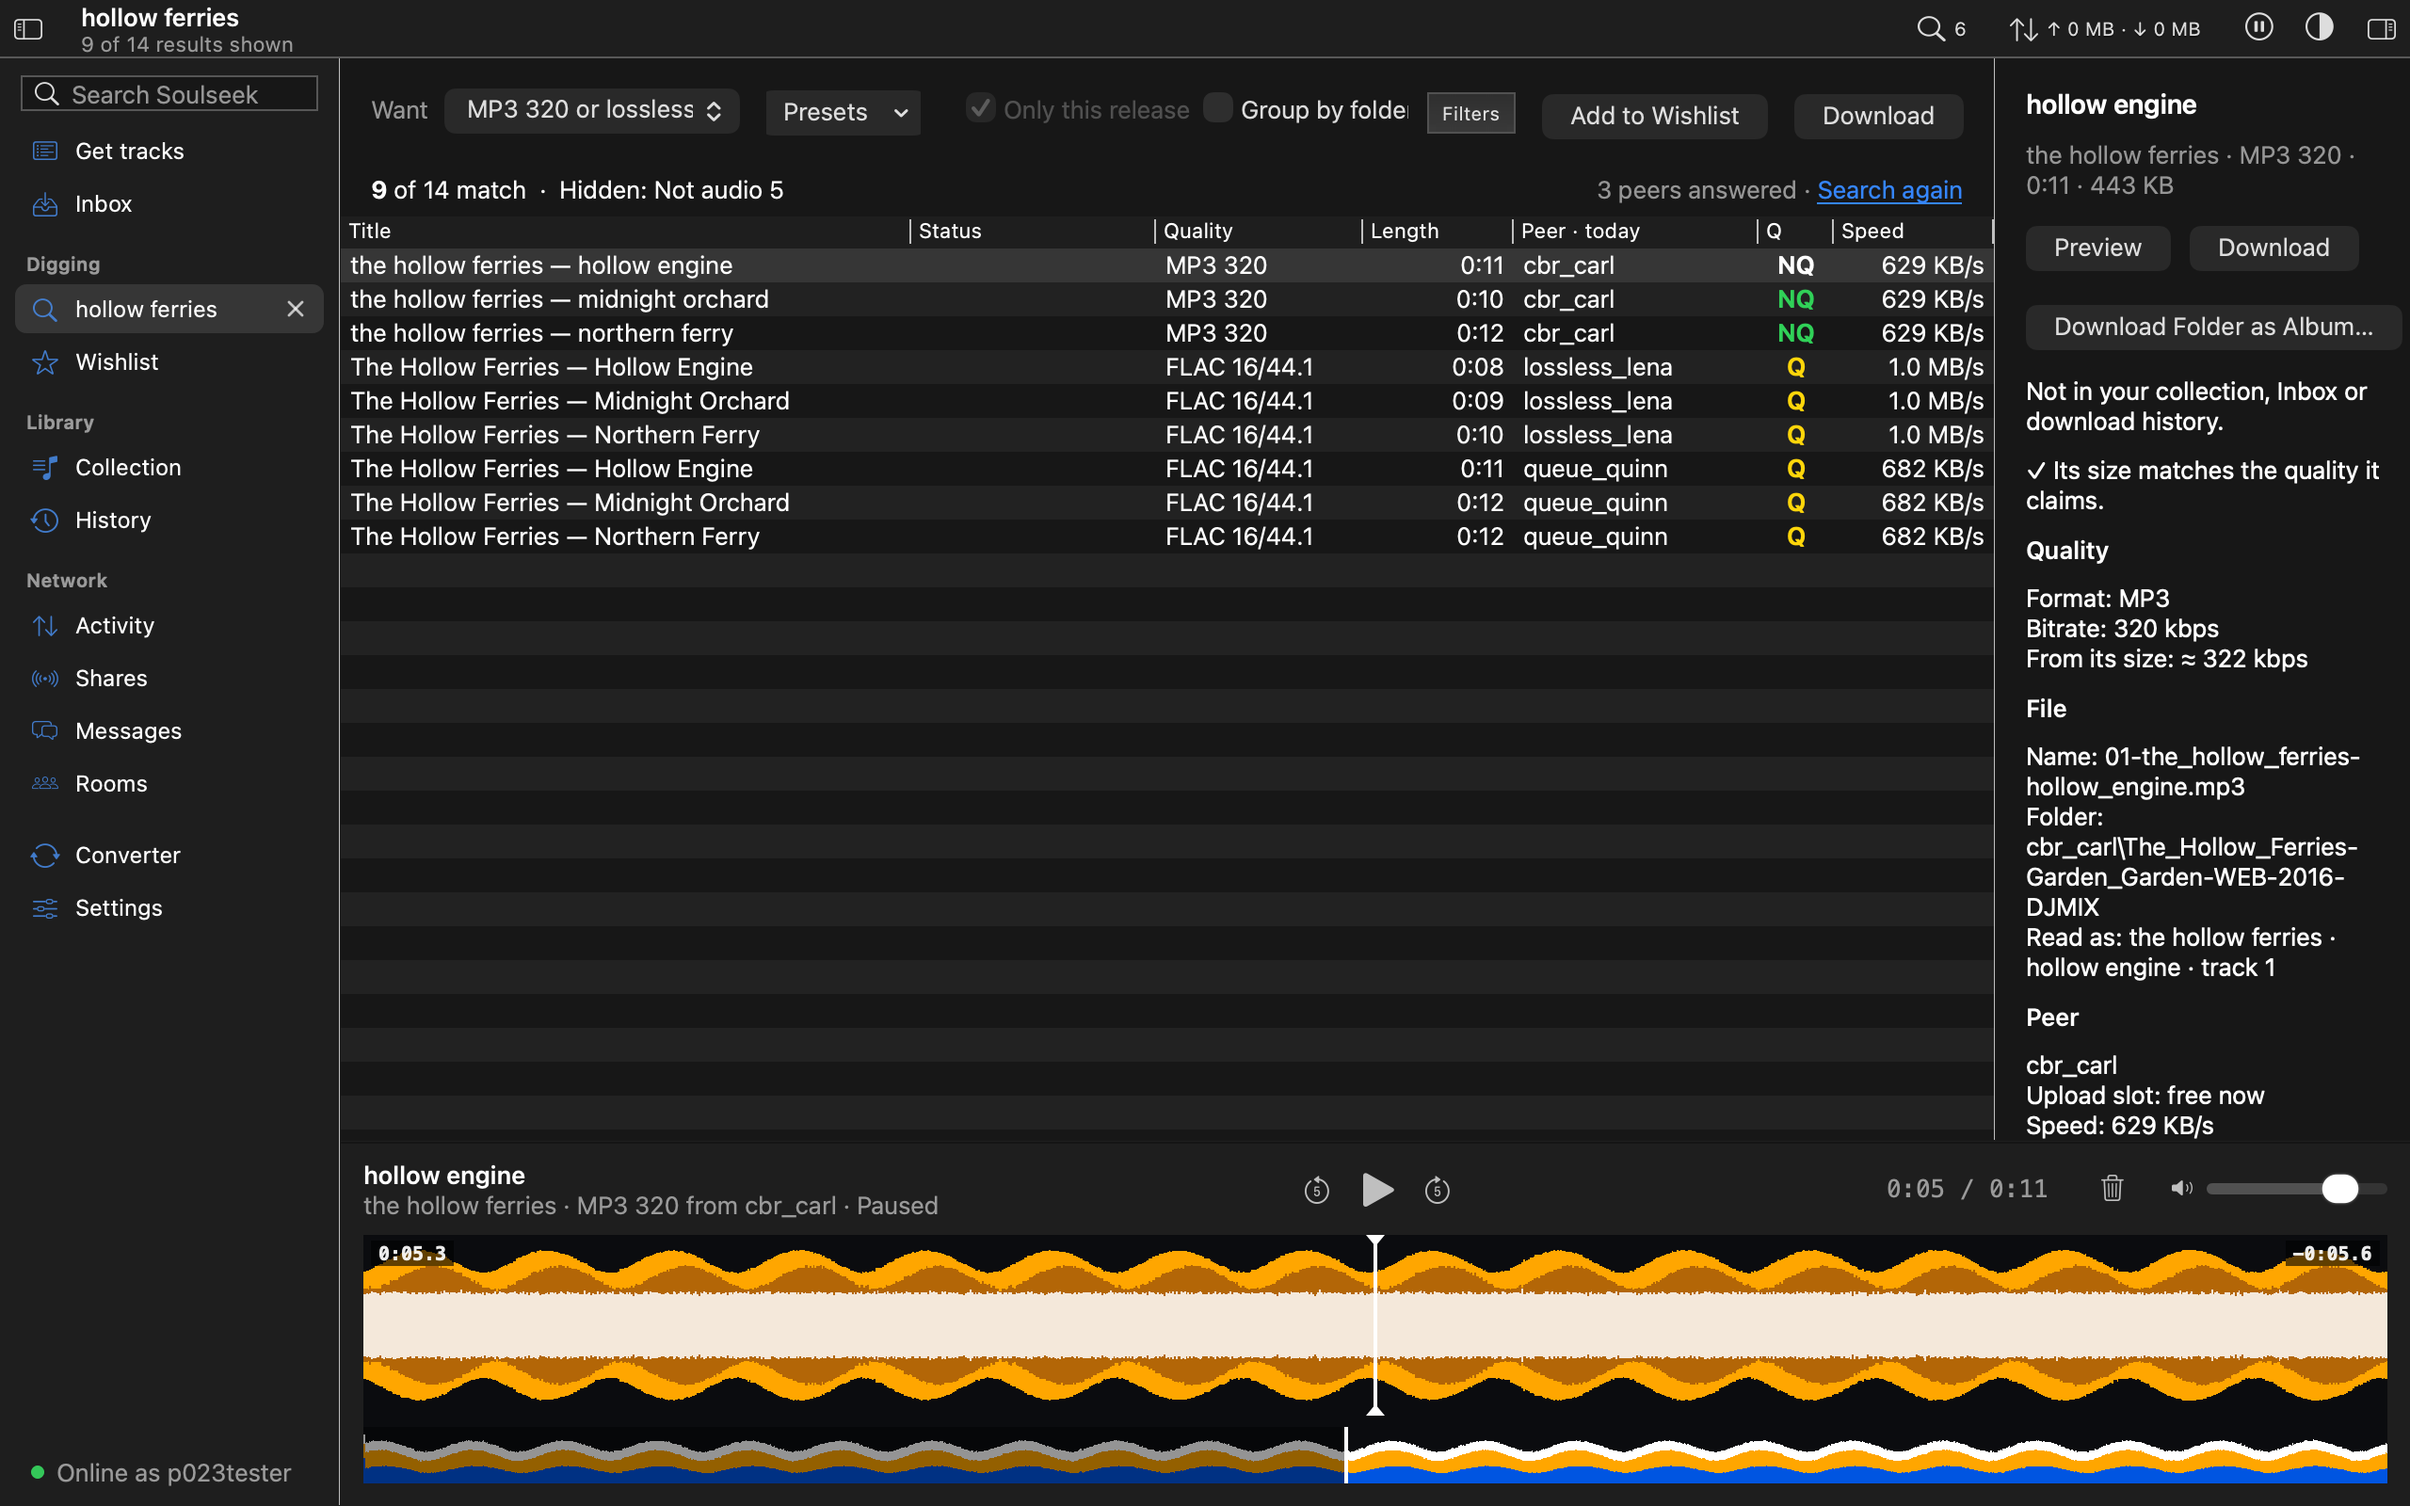
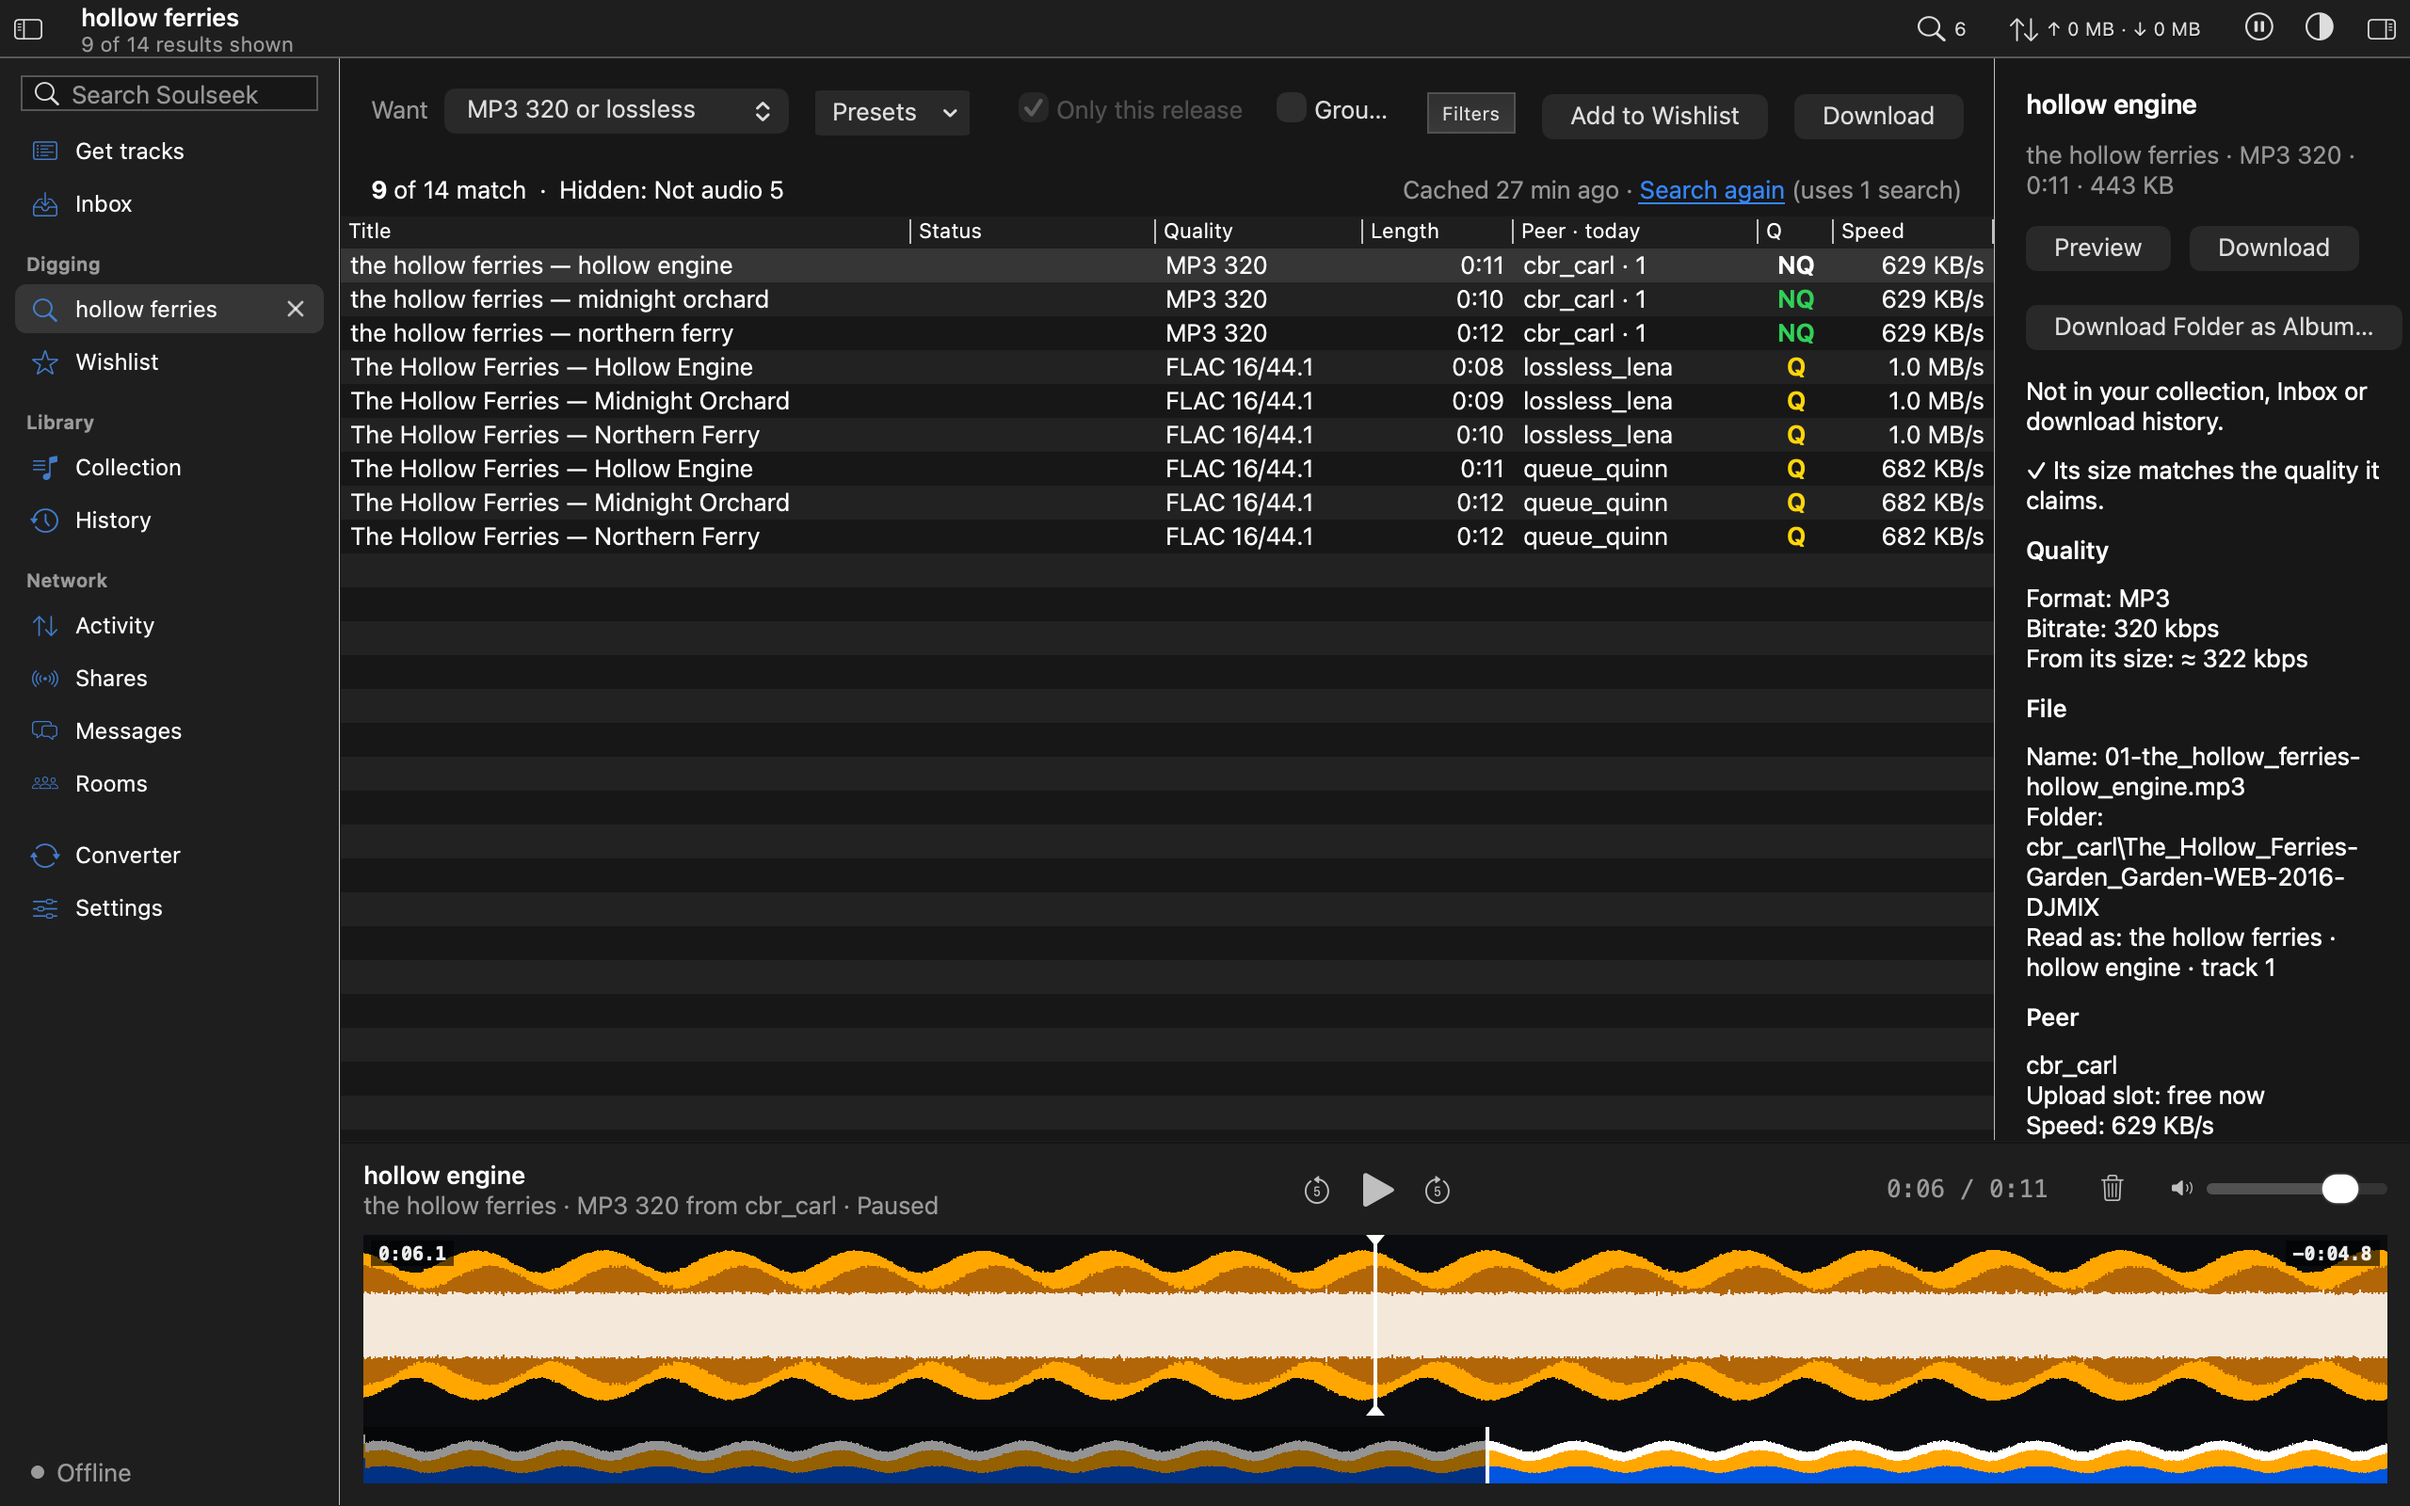
Search: the boxes' labels elide before the preset's name shortens; screenshots redone
macOS lays a check box out by a rect that stops short of its label, so
the boxes are laid out by their whole rect.

diff --git a/src/app/views/SearchView.cpp b/src/app/views/SearchView.cpp
@@ -345,8 +345,6 @@ QWidget *SearchView::createFilterBar()
     barLayout->addWidget(wants, 1);
     m_wantLabel = fieldLabel(tr("Want"), wants, m_preset);
     layout->addWidget(m_wantLabel);
-    // The preset's name elides down to a few letters before anything else gives way.
-    m_preset->setMinimumWidth((m_preset->fontMetrics().averageCharWidth() * 6) + 40);
     m_preset->setObjectName(u"search.preset"_s);
     m_preset->setToolTip(tr("The quality you want: a preset. Get tracks and the Wishlist pick from the same ones."));
     layout->addWidget(m_preset);
@@ -391,6 +389,9 @@ QWidget *SearchView::createFilterBar()
         box->setProperty("fullText", box->text());
         box->setProperty("fullToolTip", box->toolTip());
         box->setAccessibleName(box->text()); // whole, even when the label is elided
+        // Laid out by its whole rect: macOS's layout rect for a box stops short of its label's last letters, which
+        // the bar's edge would then cut.
+        box->setAttribute(Qt::WA_LayoutUsesWidgetRect);
     }
     m_filtersButton->setObjectName(u"search.filters"_s);
     m_filtersButton->setText(tr("Filters"));
@@ -1222,6 +1223,7 @@ void SearchView::giveWay()
     m_presetsButton->setVisible(true);
     m_wantLabel->setVisible(true);
     m_preset->setVisible(true);
+    m_preset->setMinimumWidth(0); // its whole name (the layout takes its size hint)
     for (QCheckBox *box : boxes) {
         const int over = needed() - available;
         if (over <= 0) {
@@ -1237,7 +1239,11 @@ void SearchView::giveWay()
         box->setText(metrics.elidedText(full, Qt::ElideRight, room));
         box->setToolTip(full + u'\n' + box->property("fullToolTip").toString());
     }
-    // Then Presets, "Want", and at last the preset itself: the actions on the right matter more.
+    // Then the preset's name is cut down to a few letters (macOS draws a combo box's text cut, not elided; the whole
+    // name is in its list), then Presets, "Want", and at last the preset itself: the actions matter more.
+    if (needed() > available) {
+        m_preset->setMinimumWidth((m_preset->fontMetrics().averageCharWidth() * 6) + 40);
+    }
     for (QWidget *widget : {static_cast<QWidget *>(m_presetsButton), static_cast<QWidget *>(m_wantLabel),
                             static_cast<QWidget *>(m_preset)}) {
         if (needed() <= available) {

diff --git a/src/app/views/SearchView.h b/src/app/views/SearchView.h
@@ -86,8 +86,9 @@ private:
     // "Not What I Have" and "Same as What I Have" for the selected results matched with an owned track (LIB-6).
     void addCorrections(QMenu &menu, const QList<int> &selected);
     QWidget *createFilterBar();
-    // Fits the bar's left side (what you want) into the width it has: the preset's name elides, then the boxes'
-    // labels, last first; a box with no room left for a word, then Presets and "Want", are hidden. Never cut.
+    // Fits the bar's left side (what you want) into the width it has: the boxes' labels elide, last first, and a box
+    // with no room left for a word is hidden; then the preset's name shortens; then Presets, "Want" and the preset
+    // are hidden. No control is ever cut by the bar's edge.
     void fitWants();
     void giveWay(); // fitWants' choices, before the layout
     QWidget *createFiltersPanel();
